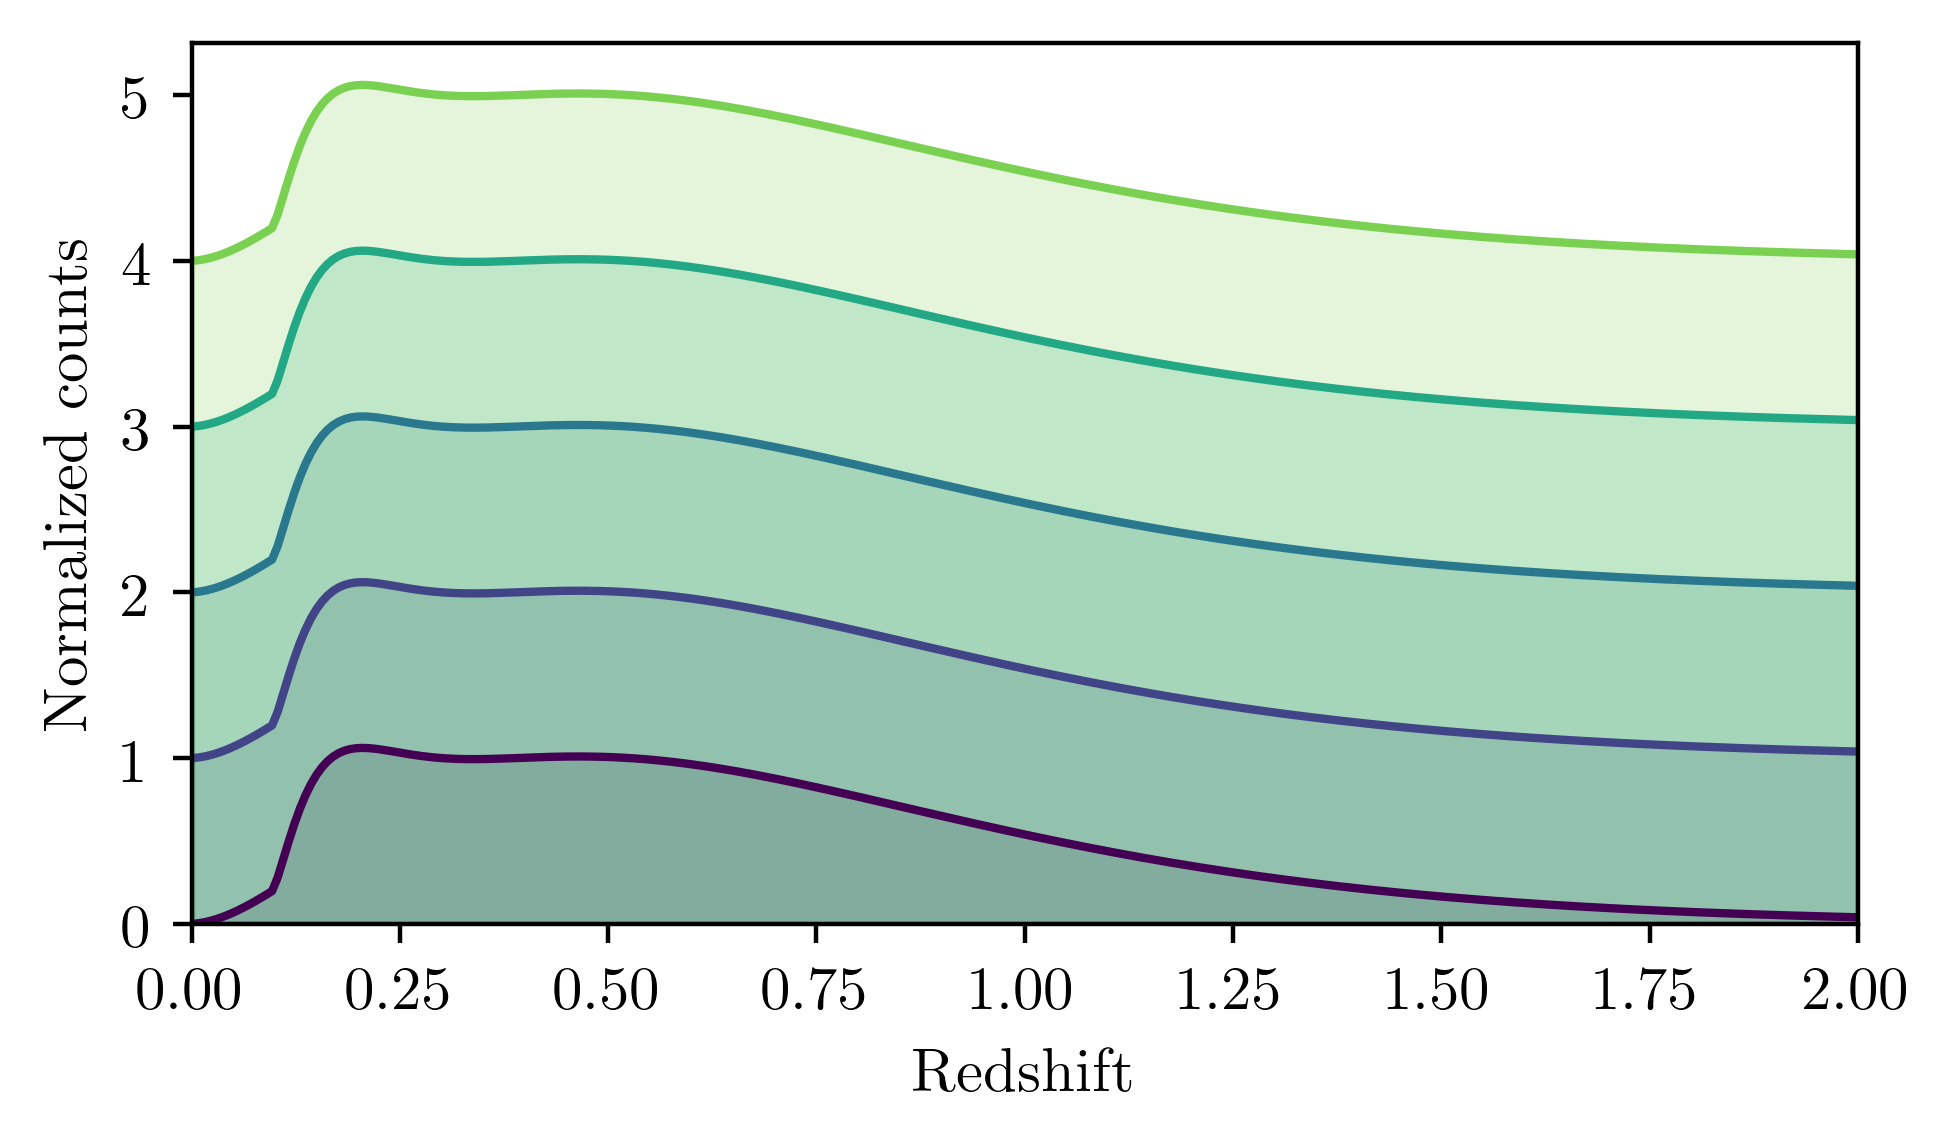
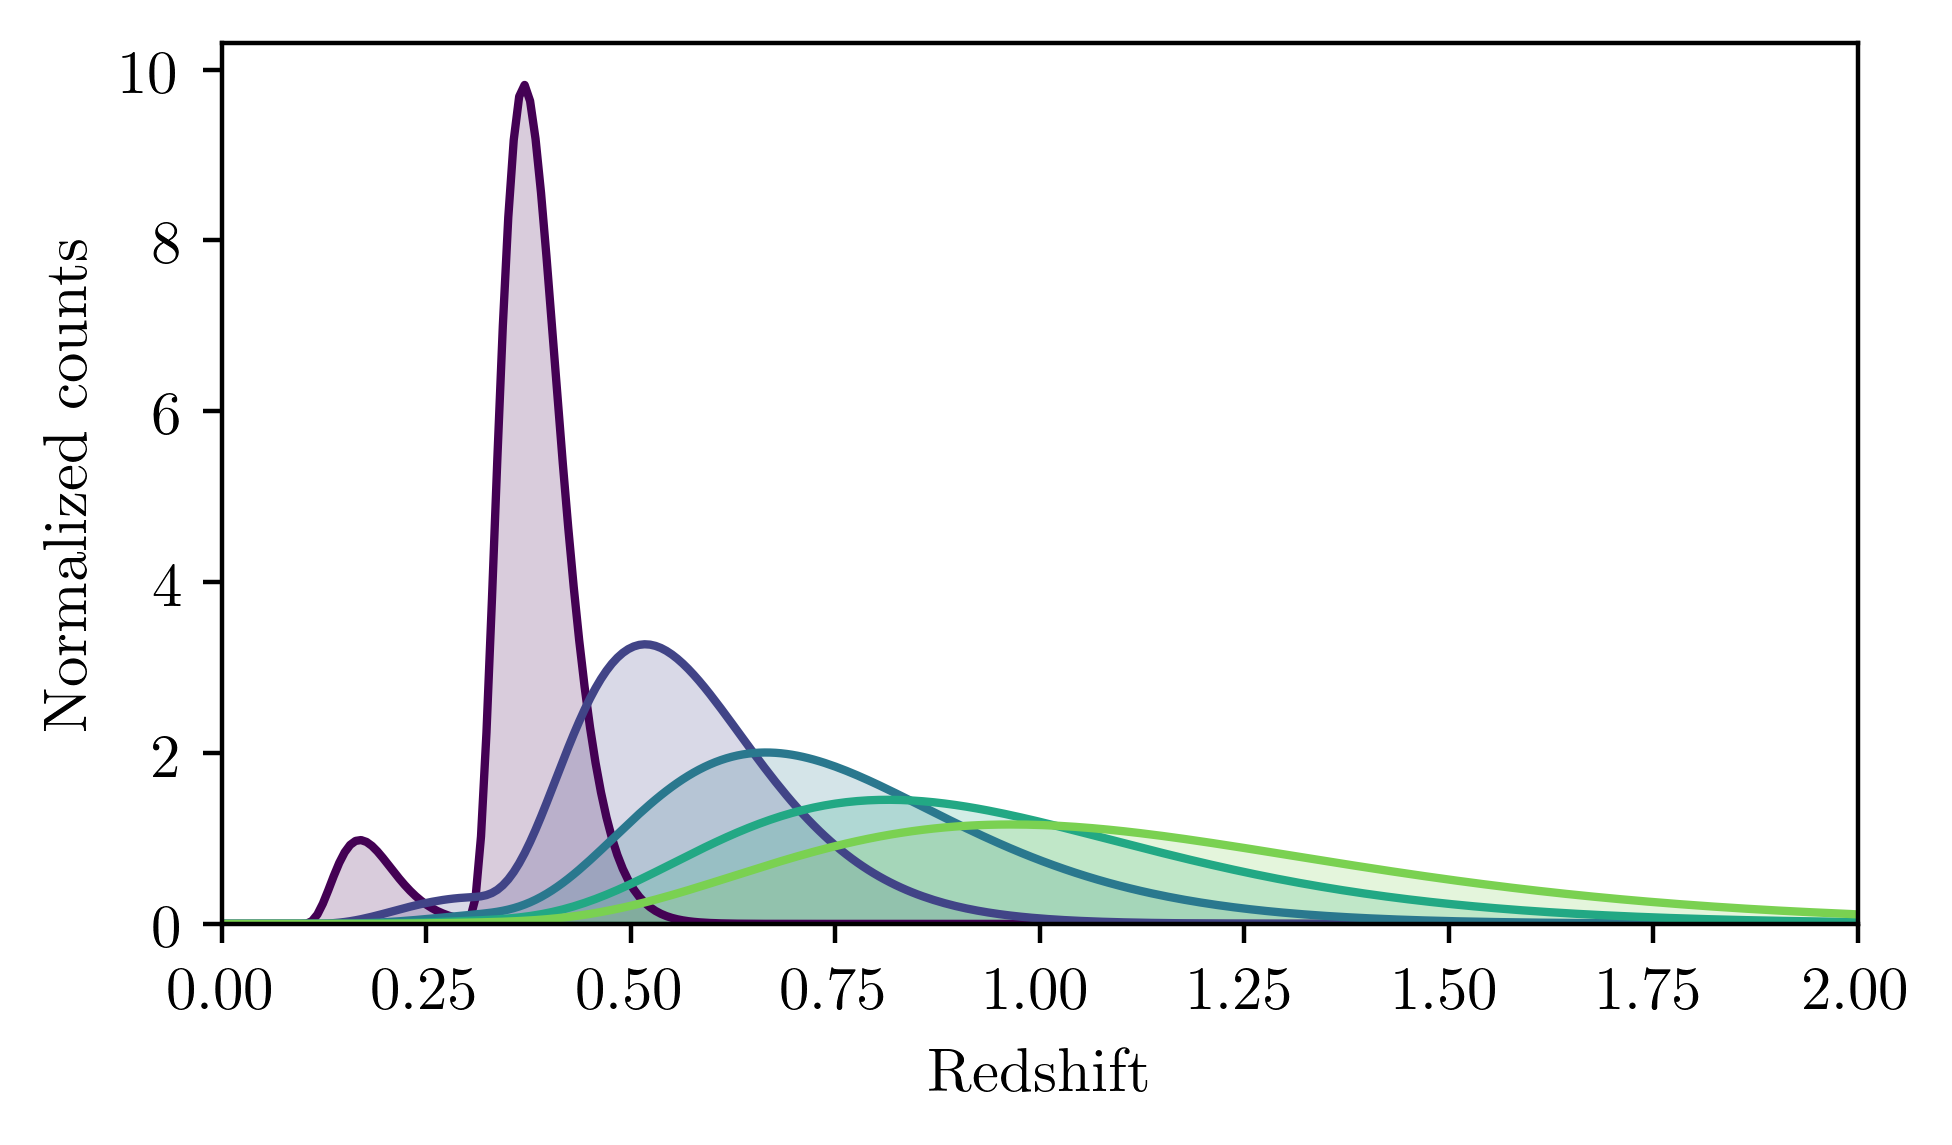
added some code for controling outlier distributions

diff --git a/mixture_model_nz.py b/mixture_model_nz.py
@@ -16,27 +16,35 @@ class mixture_nz:
 
   def __init__(self, weights, pars, locs, scales, models='gamma'):
     self.n_components = np.size(weights)
-    self.pars = np.atleast_1d(pars)
+    self.pars = np.atleast_1d(pars) # This is 'a' in scipiy notation, or  'k' in wikipedia notation
     self.weights = np.atleast_1d(weights)
     self.locs = np.atleast_1d(locs)
-    self.scales = np.atleast_1d(scales)
+    self.scales = np.atleast_1d(scales) # This is 'theta' in wikipedia notation
 
     if np.size(models) > 1:
       self.models = np.asarray(models)
     else:
       self.models = np.asarray([models]*self.n_components)
 
-
-  def bulk_mean_for_mixture(m_mix, w_b, a_b, theta_b, w_o, m_o, a_o, theta_o):
-    # Function to calculate the location to assign the bulk, such that the mean of the
+  def bulk_mean_for_mixture(mix_mean, b_w, b_a, b_theta, o_w, o_loc, o_a, o_theta):
+  #def bulk_mean_for_mixture(mean_mix, w_b, a_b, theta_b, w_o, loc_o, a_o, theta_o):
+    # Function to calculate the mean to assign the bulk, such that the mean of the
     # bulk+outlier n(z) has the value m_mix, for a given outlier n(z)
-    # The outlier n(z) is specified by its weight w_o, its location m_o,
+    # The outlier n(z) is specified by its weight w_o, its location loc_o,
     # its shape parameter a_o and its scale parameter theta_o
     # The bulk n(z) is specified by its weight w_b, shape parameter a_b and scale theta_b
 
-    retVar = m_mix/w_b - (w_o/w_b)*(a_o*theta_o + m_o) - a_b*theta_b
+    # This was previously calculating the location instead of the mean but I think 
+    # the mean is a more useful thing to return so switching to that instead
+    #retVar = m_mix/w_b - (w_o/w_b)*(a_o*theta_o + loc_o) - a_b*theta_b
 
-    return retVar
+    # Writing this out with more steps for clarity:
+    b_gamma_mean = b_a * b_theta
+    o_gamma_mean = o_a * o_theta
+    o_mean = o_gamma_mean + o_loc
+    b_mean = ( mix_mean - o_w * o_mean ) / b_w
+
+    return b_mean
 
   def get_mean(self):
 
@@ -46,7 +54,6 @@ class mixture_nz:
       dist_mean += self.weights[im]*model_dict[model](self.pars[im], self.locs[im], self.scales[im]).mean()
 
     return dist_mean
-
 
   def gridded_nz(self, zmin, zmax, npix=512, normed=False):
 
@@ -60,6 +67,69 @@ class mixture_nz:
       nz = nz / cumtrapz(nz, z)[-1]
 
     return nz
+
+def Gamma_skew_to_a(skew):
+
+  # From wikipedia `The skewness of the gamma distribution only depends on its 
+  # shape parameter, k, and it is equal to 2/{\sqrt {k}}.''
+  # So to convert from skew to shape we do k = (2/skew)^2
+  # k is the shape parameter 
+  # k is written as 'a' in the scipy documentation so use that notation here
+  a = (2.0 / skew) * (2.0 / skew) 
+
+  return a
+
+def Gamma_mean_a_loc_to_theta(mean, a, loc):
+
+  # loc is the scipy notation for an offset of the whole Gamma distribution
+  # Now the difference between the mean and the loc determines the variance
+  # scipy calls theta the 'scale'
+  gamma_mean = mean - loc
+  theta = gamma_mean / a
+
+  return theta
+
+def Gamma_a_to_skew(a):
+
+  skew = 2 / np.sqrt(a)
+
+  return skew
+
+def Gamma_a_theta_loc_to_mean(a, theta, loc):
+
+  # First calculate the mean of the Gamma distribution (for a distribution with no offset i.e. for loc=0)
+  gamma_mean = a * theta
+  mean = loc + gamma_mean
+
+  return mean
+
+def get_nz_from_skews_etc(nzs, zmin, zmax, nz, mix_means, outlier_fractions, outlier_means, outlier_skews, outlier_locs,  bulk_skews, bulk_locs):
+
+  nzbin = len(mix_means)
+
+  for izbin in range(nzbin):
+    # Convert these into the mixture_nz inputs..
+    mix_mean = mix_means[izbin] # This is the mean of the whole multimodal n(z)
+    b_w = 1. # Fix the arbitrary scaling of the height of the n(z)s arbitrarily
+    o_w = outlier_fractions[izbin] # check this is what the ws actually do!
+    o_m = outlier_means[izbin]
+    b_a = Gamma_skew_to_a(bulk_skews[izbin])
+    o_a = Gamma_skew_to_a(outlier_skews[izbin])
+
+    o_mean = outlier_means[izbin]
+    o_loc = outlier_locs[izbin]
+    o_theta = Gamma_mean_a_loc_to_theta(o_mean, o_a, o_loc)
+
+    b_loc = bulk_locs[izbin]
+    b_mean = (mix_mean - o_w * o_mean) / b_w
+    b_theta = Gamma_mean_a_loc_to_theta(b_mean, b_a, b_loc)
+
+    #print('b_w=',b_w,' o_w=',o_w)
+    print('b_theta=',b_theta,' o_theta=',o_theta)
+    bulk_outliers = mixture_nz([b_w, o_w], [b_a, o_a], [b_loc, o_loc], [b_theta, b_theta])
+    nzs[izbin] = bulk_outliers.gridded_nz(zmin, zmax, nz, True)
+
+  return nzs
 
 
 if __name__=='__main__':
@@ -104,36 +174,13 @@ if __name__=='__main__':
 
   # Specify 5 n(z)s
   nzbin = 5
-  means = [0.2 0.4 0.6 0.8 1.0]
-  outlier_fractions = [0.1 0.1 0.1 0.1 0.1]
-  outlier_means = [0.1 0.1 0.1 0.1 0.1]
-  outlier_shapes = [??]
-  outlier_scales = [??]
-  bulk_shapes = [??]
-  bulk_scales = [??]
-
-  # Now convert these into the mixture_nz inputs..
-  izbin = 0
-  mean = means[izbin]
-  outlier_fraction = outlier_fractions[izbin]
-  outlier_mean = outlier_means[izbin]
-  w_b = 1 # Fix the arbitrary scaling of the height of the n(z)s arbitrarily
-  w_o = w_b * outlier_fraction # check this is what ws actually do!
-  m_o = outlier_mean
-  a_b = bulk_shapes[izbin]
-  theta_b =
-  a_o = outlier_shapes[izbin]
-  theta_o =
-
-      # Function to calculate the location to assign the bulk, such that the mean of the
-    # bulk+outlier n(z) has the value m_mix, for a given outlier n(z)
-    # The outlier n(z) is specified by its weight w_o, its location m_o,
-    # its shape parameter a_o and its scale parameter theta_o
-    # The bulk n(z) is specified by its weight w_b, shape parameter a_b and scale theta_b
-
-
-  bulk_mean_for_mixture(mean, w_b, a_b, theta_b, w_o, m_o, a_o, theta_o):
-  bulk_outliers = mixture_nz([1.,0.1], [3., 2.5], [0., 0.1], [0.25, 0.05])
+  mix_means = [0.4, 0.6, 0.8, 1.0, 1.2]
+  outlier_fractions = [0.1, 0.1, 0.1, 0.1, 0.1]
+  outlier_means = [0.1, 0.2, 0.3, 0.4, 0.5]
+  outlier_skews = [0.9, 0.9, 0.9, 0.9, 0.9]
+  outlier_locs = [0.1, 0.1, 0.1, 0.1, 0.1]
+  bulk_skews = [0.9, 0.9, 0.9, 0.9, 0.9]
+  bulk_locs = [0.3, 0.3, 0.3, 0.3, 0.3]
 
   ## Save them in shear-2pt format
 
@@ -147,15 +194,16 @@ if __name__=='__main__':
   # Assume for now this is hard-wired to be the second kernel...!!! not great coding!!!
   kernel = T.kernels[1]
   print(kernel.name)
-  print('Panic if the above doesnt say NZ_SOURCE') # Do it better!
+  print('Panic if the above doesnt say NZ_SOURCE') # Do this better!
   nbin = kernel.nbin
+  #if (nbin is not len(mix_means): print('Panic! - inconsistent nbin!')
   z = kernel.z
   zmin = z[0]
   nsample = len(z)
   zmax = z[nsample-1]
-  for i in range(nbin):
-    # Bodge something together for now to illustrate the point
-    kernel.nzs[i] = bulk_outliers.gridded_nz(zmin, zmax, nsample, True) + i
+  nzs = kernel.nzs # This is a hack to get something the right shape to overwrite
+  nzs = get_nz_from_skews_etc(nzs, zmin, zmax, nsample, mix_means, outlier_fractions, outlier_means, outlier_skews, outlier_locs,  bulk_skews, bulk_locs)
+  kernel.nzs = nzs
   T.kernels[1] = kernel
 
   # Check and write out the new n(z)s
